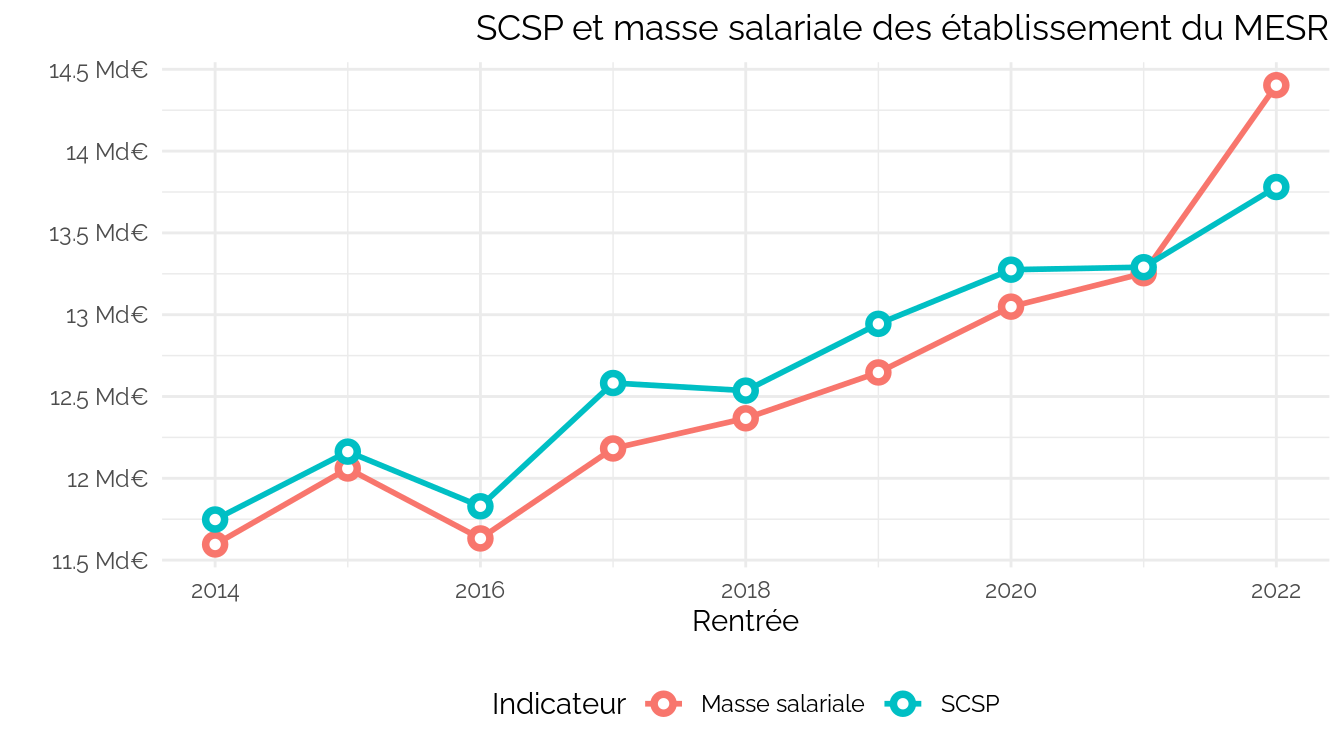
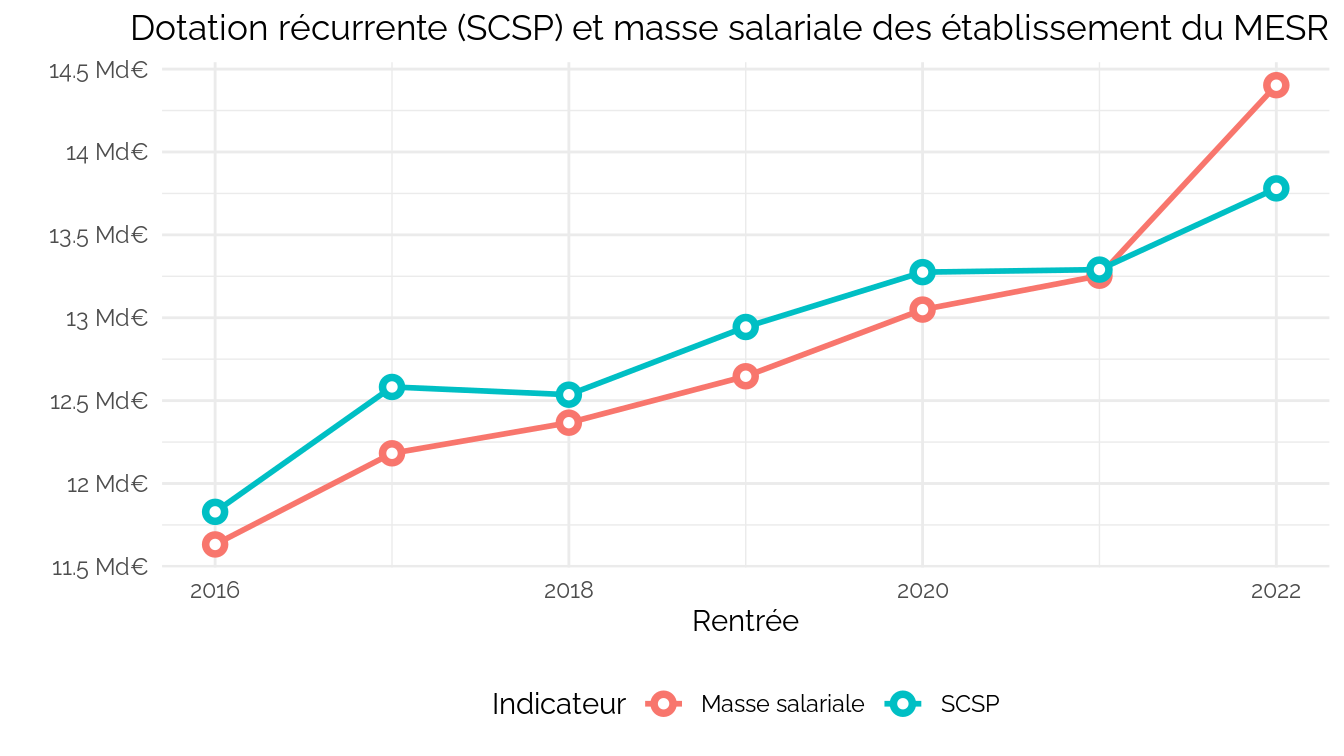
SCSP vs MS

diff --git a/SCSP/SCSP.md b/SCSP/SCSP.md
@@ -1,7 +1,7 @@
 SCSP
 ================
 CPESR
-2023-12-07
+2023-12-09
 
 ## Données
 
@@ -83,3 +83,7 @@ Téléchargement : [csv](%22fr-cpesr-scsp.csv%22)
     ## generated.
 
 <img src="SCSP_files/figure-gfm/scsp.vs.ms-1.png" width="672" />
+
+<img src="SCSP_files/figure-gfm/scsp.vs.ms2-1.png" width="672" />
+
+<img src="SCSP_files/figure-gfm/scsp.vs.ms3-1.png" width="672" />
